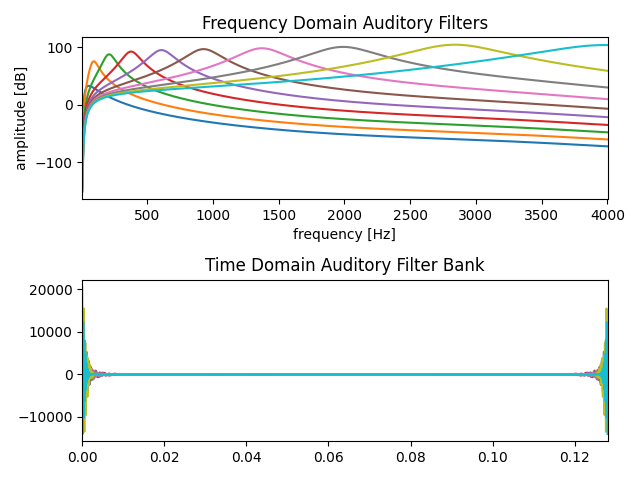
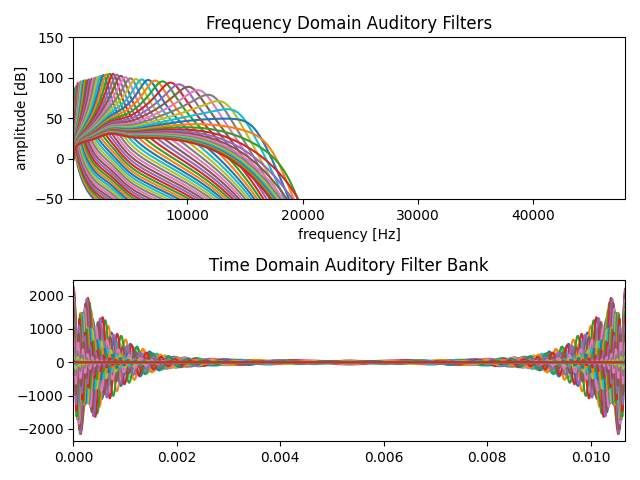
Added stuff.

diff --git a/taal_model.py b/taal_model.py
@@ -1,9 +1,16 @@
 import numpy as np 
 import scipy as sp 
+import scipy.signal
+import scipy.optimize
+
+from auditory_filter_bank import auditory_filter_bank
+from signal_pressure_mapping import signal_pressure_mapping
+from lowpass_filter import lowpass_filter
+from threshold_in_quiet import threshold_in_quiet
 
 class taal_model:
     def __init__(self, sampling_rate : float, N_samples : int, \
-            N_filters : int, filter_order : int = 4):
+            N_filters : int = 64, filter_order : int = 4):
         # Map over input parameters
         self.sampling_rate = sampling_rate
         self.N_samples = N_samples
@@ -11,23 +18,79 @@ class taal_model:
         self.filter_order = filter_order
 
         # Compute frequency axis
-        self.frequencies = np.linspace(0, N_samples / 2, N_samples) \
-                / N_samples * sampling_rate
+        self.frequency_axis = np.fft.rfftfreq(self.N_samples, 1 / self.sampling_rate);
 
-        # Compute min / max center frequencies
-        self.min_frequency = 150.0
-        self.max_frequency = min(8000.0, sampling_rate / 2)
+        # Compute signal <-> db SPL
+        self.mapping = signal_pressure_mapping(1, 100)
 
-        # Convert to min / max center erbs
-        self.min_erbs = self.frequencies_to_erbs(self.min_frequency)
-        self.max_erbs = self.frequencies_to_erbs(self.max_frequency)
+        # Compute ear filter bank
+        self.auditory_filter_bank_freq = auditory_filter_bank(self.frequency_axis, 
+                self.sampling_rate, self.mapping).filter_bank
+        self.auditory_filter_bank_time = np.fft.irfft(self.auditory_filter_bank_freq)
+        self.N_auditory_filter = self.auditory_filter_bank_time[0].size
+        
+        # Compute lowpass filter
+        self.N_convolved = self.N_samples + self.N_auditory_filter - 1
+        self.convolved_frequency_axis = np.fft.rfftfreq(self.N_convolved, 1 / self.sampling_rate);
+        self.lowpass_freq = lowpass_filter(self.convolved_frequency_axis, 1000, self.sampling_rate).filter_freq
+        self.lowpass_time = np.fft.irfft(self.lowpass_freq)
 
-        # Compute center frequencies
-        self.center_erbs = np.linspace(self.min_erbs, self.max_erbs, N_filters)
-        self.center_frequencies = self.erbs_to_frequencies(self.center_erbs)
+        # Coefficients
+        training_rate = 10000
+        sine_base = np.cos(2 * np.pi * training_rate / sampling_rate * np.arange(0, self.N_samples))
+        sine_base_internal = self.__internal_representation(sine_base)
+        sine_threshold_in_quiet = threshold_in_quiet(training_rate, self.mapping) * sine_base
+        sine_threshold_in_quiet_internal = self.__internal_representation(sine_threshold_in_quiet)
+        sine_masker = self.mapping.pressure_to_signal(70) * sine_base
+        sine_masker_internal = self.__internal_representation(sine_masker)
+        sine_masked = self.mapping.pressure_to_signal(52) * sine_base
+        sine_masked_internal = self.__internal_representation(sine_masked)
 
-    def frequencies_to_erbs(self, frequencies):
-        return 21.4 * np.log10(4.37 * (frequencies / 1000.0) + 1.0)
+        
+        helper_function = lambda x, C2 : C2 * sum(np.linalg.norm(x, 1.0, axis=1))
+        bisection_function = lambda C2 : helper_function(sine_masked_internal / (sine_masker_internal +
+            helper_function(sine_threshold_in_quiet_internal, C2)), C2) - 1
 
-    def erbs_to_frequencies(self, erbs):
-        return (np.pow(10.0, erbs / 21.4) - 1.0) / 4.37 * 1000.0
+        self.C2 = sp.optimize.bisect(bisection_function, 0, 100000)
+        print(self.C2)
+        self.C1 = helper_function(sine_threshold_in_quiet_internal, self.C2)
+        print(self.C1)
+
+    def gain_function(self, x):
+        g = np.zeros((self.N_filters, self.N_convolved))
+        y = self.__internal_representation(x)
+        for i in range(0, self.N_filters):
+            # Determine energy ratio
+            fr   = self.C2 / (y[i] + self.C1)
+            # Return filtered energy ratio
+            g[i] = np.sqrt(np.fft.irfft(np.fft.rfft(fr) * self.lowpass_freq, n=self.N_convolved))
+
+        return g
+
+    def __internal_representation(self, x):
+        y = np.zeros((self.N_filters, self.N_convolved))
+        for i in range(0, self.N_filters):
+            xi   = np.convolve(x, self.auditory_filter_bank_time[i])
+            y[i] = np.fft.irfft(np.fft.rfft(np.power(np.abs(xi), 2.0)) * self.lowpass_freq, n=self.N_convolved)
+
+        return y;
+
+    def detectability(self, x, e):
+        D = 0
+        g = self.gain_function(x)
+        for i in range(0, self.N_filters):
+            # Determine auditory-filtered e
+            ei = np.convolve(e, self.auditory_filter_bank_time[i])
+            D  = D + (np.linalg.norm(g[i] * ei) ** 2)
+
+        return D
+
+
+    def masking_threshold(self, x):
+        t = np.zeros(self.convolved_frequency_axis.size)
+        for i in range(0, self.convolved_frequency_axis.size):
+            f = self.convolved_frequency_axis[i]
+            e = np.cos(2 * np.pi * f * np.arange(0, self.N_samples) / self.sampling_rate)
+            t[i] = 1 / np.sqrt(self.detectability(x, e))
+
+        return t

diff --git a/test_threshold_in_quiet.py b/test_threshold_in_quiet.py
@@ -2,11 +2,10 @@ import pytest
 import matplotlib.pyplot as mpl
 import numpy as np
 
-from outer_middle_ear_filter import outer_middle_ear_filter
+from threshold_in_quiet import threshold_in_quiet_db, threshold_in_quiet
 from signal_pressure_mapping import signal_pressure_mapping
 
-# Create a test-plot of the low-pass filter
-def test_outer_middle_ear_filter_plot():
+def test_outer_threshold_in_quiet():
     # Define problem parameters
     N_fft = 10240
     sampling_rate = 48000.0
@@ -16,28 +15,28 @@ def test_outer_middle_ear_filter_plot():
     frequencies = np.fft.rfftfreq(N_fft, 1 / sampling_rate)
     time = np.linspace(0, N_fft / sampling_rate, N_fft)
 
-    # Create lowpass filter
-    outer_middle_ear_filter_instance_freq = outer_middle_ear_filter(frequencies, mapping).filter
-    outer_middle_ear_filter_instance_time = np.fft.irfft(outer_middle_ear_filter_instance_freq, n=N_fft)
+    # Create threshold
+    threshold_freq = threshold_in_quiet_db(frequencies)
+    threshold_time = np.fft.irfft(threshold_in_quiet(frequencies, mapping), n=N_fft)
 
     # Create plots
     fig, axs = mpl.subplots(2)
 
-    axs[0].semilogx(frequencies, 20 * np.log10(np.abs(outer_middle_ear_filter_instance_freq)))
-    axs[0].set_title("Frequency Domain Outer-middle Ear Filter")
+    axs[0].semilogx(frequencies, threshold_freq)
+    axs[0].set_title("Frequency Domain Threshold in Quiet")
     axs[0].set_xlabel("frequency [Hz]")
     axs[0].set_ylabel("amplitude [dB]")
     axs[0].set_xlim(min(frequencies[1:]), max(frequencies)) 
-    axs[0].set_ylim(-40, 120) 
+    axs[0].set_ylim(-40, 180) 
 
-    axs[1].plot(time, outer_middle_ear_filter_instance_time)
-    axs[1].set_title("Time Domain Outer-middle Ear Filter")
+    axs[1].plot(time, threshold_time)
+    axs[1].set_title("Time Domain Threshold in Quiet")
     axs[1].set_xlabel("time [s]")
     axs[1].set_ylabel("amplitude")
     axs[1].set_xlim(0, N_fft / sampling_rate) 
     
     fig.tight_layout()
-    fig.savefig("plots/test_outer_middle_ear_filter_plot.png")
+    fig.savefig("plots/test_threshold_in_quiet.png")
 
     # If execution makes it this far, the test has passed.
     assert True

diff --git a/test_taal_model.py b/test_taal_model.py
@@ -1,0 +1,34 @@
+import pytest 
+import matplotlib.pyplot as mpl
+import numpy as np
+
+from taal_model import taal_model
+from signal_pressure_mapping import signal_pressure_mapping
+from threshold_in_quiet import threshold_in_quiet_db
+
+def test_taal_model():
+    # Define problem parameters
+    N_samples = 512
+    sampling_rate = 96000.0
+    model = taal_model(sampling_rate, N_samples)
+    mapping = signal_pressure_mapping(1, 100)
+
+    # Create masking threshold
+    x = np.zeros(N_samples)
+    threshold_freq = model.masking_threshold(x)
+
+    # Test
+    fig, axs = mpl.subplots(2)
+
+    axs[0].semilogx(model.convolved_frequency_axis, mapping.signal_to_pressure(threshold_freq))
+    axs[0].semilogx(model.convolved_frequency_axis, threshold_in_quiet_db(model.convolved_frequency_axis))
+    axs[0].set_title("Taal Model Masking Threshold")
+    axs[0].set_xlabel("frequency [Hz]")
+    axs[0].set_ylabel("amplitude [dB]")
+    print(model.convolved_frequency_axis)
+    axs[0].set_xlim(min(model.convolved_frequency_axis[1:]), max(model.convolved_frequency_axis)) 
+    axs[0].set_ylim(-20, 150) 
+
+    fig.tight_layout()
+    fig.savefig("plots/test_taal_model.png")
+

diff --git a/test_auditory_filter_bank.py b/test_auditory_filter_bank.py
@@ -9,8 +9,8 @@ from signal_pressure_mapping import signal_pressure_mapping
 def test_auditory_filter_bank_plot():
     # Define problem parameters
     N_fft = 1024
-    N_filters = 10
-    sampling_rate = 8000.0
+    N_filters = 64
+    sampling_rate = 96000.0
     mapping = signal_pressure_mapping(1, 100)
 
     # Define x-axis
@@ -31,6 +31,7 @@ def test_auditory_filter_bank_plot():
     axs[0].set_xlabel("frequency [Hz]")
     axs[0].set_ylabel("amplitude [dB]")
     axs[0].set_xlim(min(frequencies[1:]), max(frequencies)) 
+    axs[0].set_ylim(-50, 150) 
 
     for auditory_filter_time in auditory_filter_bank_time:
         axs[1].plot(time, auditory_filter_time)

diff --git a/lowpass_filter.py b/lowpass_filter.py
@@ -10,13 +10,13 @@ class lowpass_filter:
         self.__sampling_rate = sampling_rate
 
         # Create filter
-        self.filter = self.frequency_response()
+        self.filter_freq = self.__frequency_response()
 
-    def a_factor(self):
+    def __a_factor(self):
         return -1 * np.exp(-2 * np.pi * self.__cutoff_frequency / self.__sampling_rate)
 
-    def frequency_response(self):
-        a = self.a_factor()
+    def __frequency_response(self):
+        a = self.__a_factor()
         return (1 + a) / np.sqrt(1 + a ** 2 + 2 * a * \
                 np.cos(2 * np.pi * self.__frequencies / self.__sampling_rate))
 

diff --git a/test_lowpass_filter.py b/test_lowpass_filter.py
@@ -16,7 +16,7 @@ def test_lowpass_filter_plot():
     time = np.linspace(0, N_fft / sampling_rate, N_fft)
 
     # Create lowpass filter
-    lowpass_filter_instance_freq = lowpass_filter(frequencies, cutoff_frequency, sampling_rate).filter
+    lowpass_filter_instance_freq = lowpass_filter(frequencies, cutoff_frequency, sampling_rate).filter_freq
     lowpass_filter_instance_time = np.fft.irfft(lowpass_filter_instance_freq, n=N_fft)
 
     # Create plots

diff --git a/test_gammatone_filter_bank.py b/test_gammatone_filter_bank.py
@@ -9,7 +9,7 @@ def test_gammatone_filter_bank_plot():
     # Define problem parameters
     N_fft = 1024
     N_filters = 10
-    sampling_rate = 8000.0
+    sampling_rate = 48000.0
 
     # Define x-axis
     frequencies = np.fft.rfftfreq(N_fft, 1 / sampling_rate)
